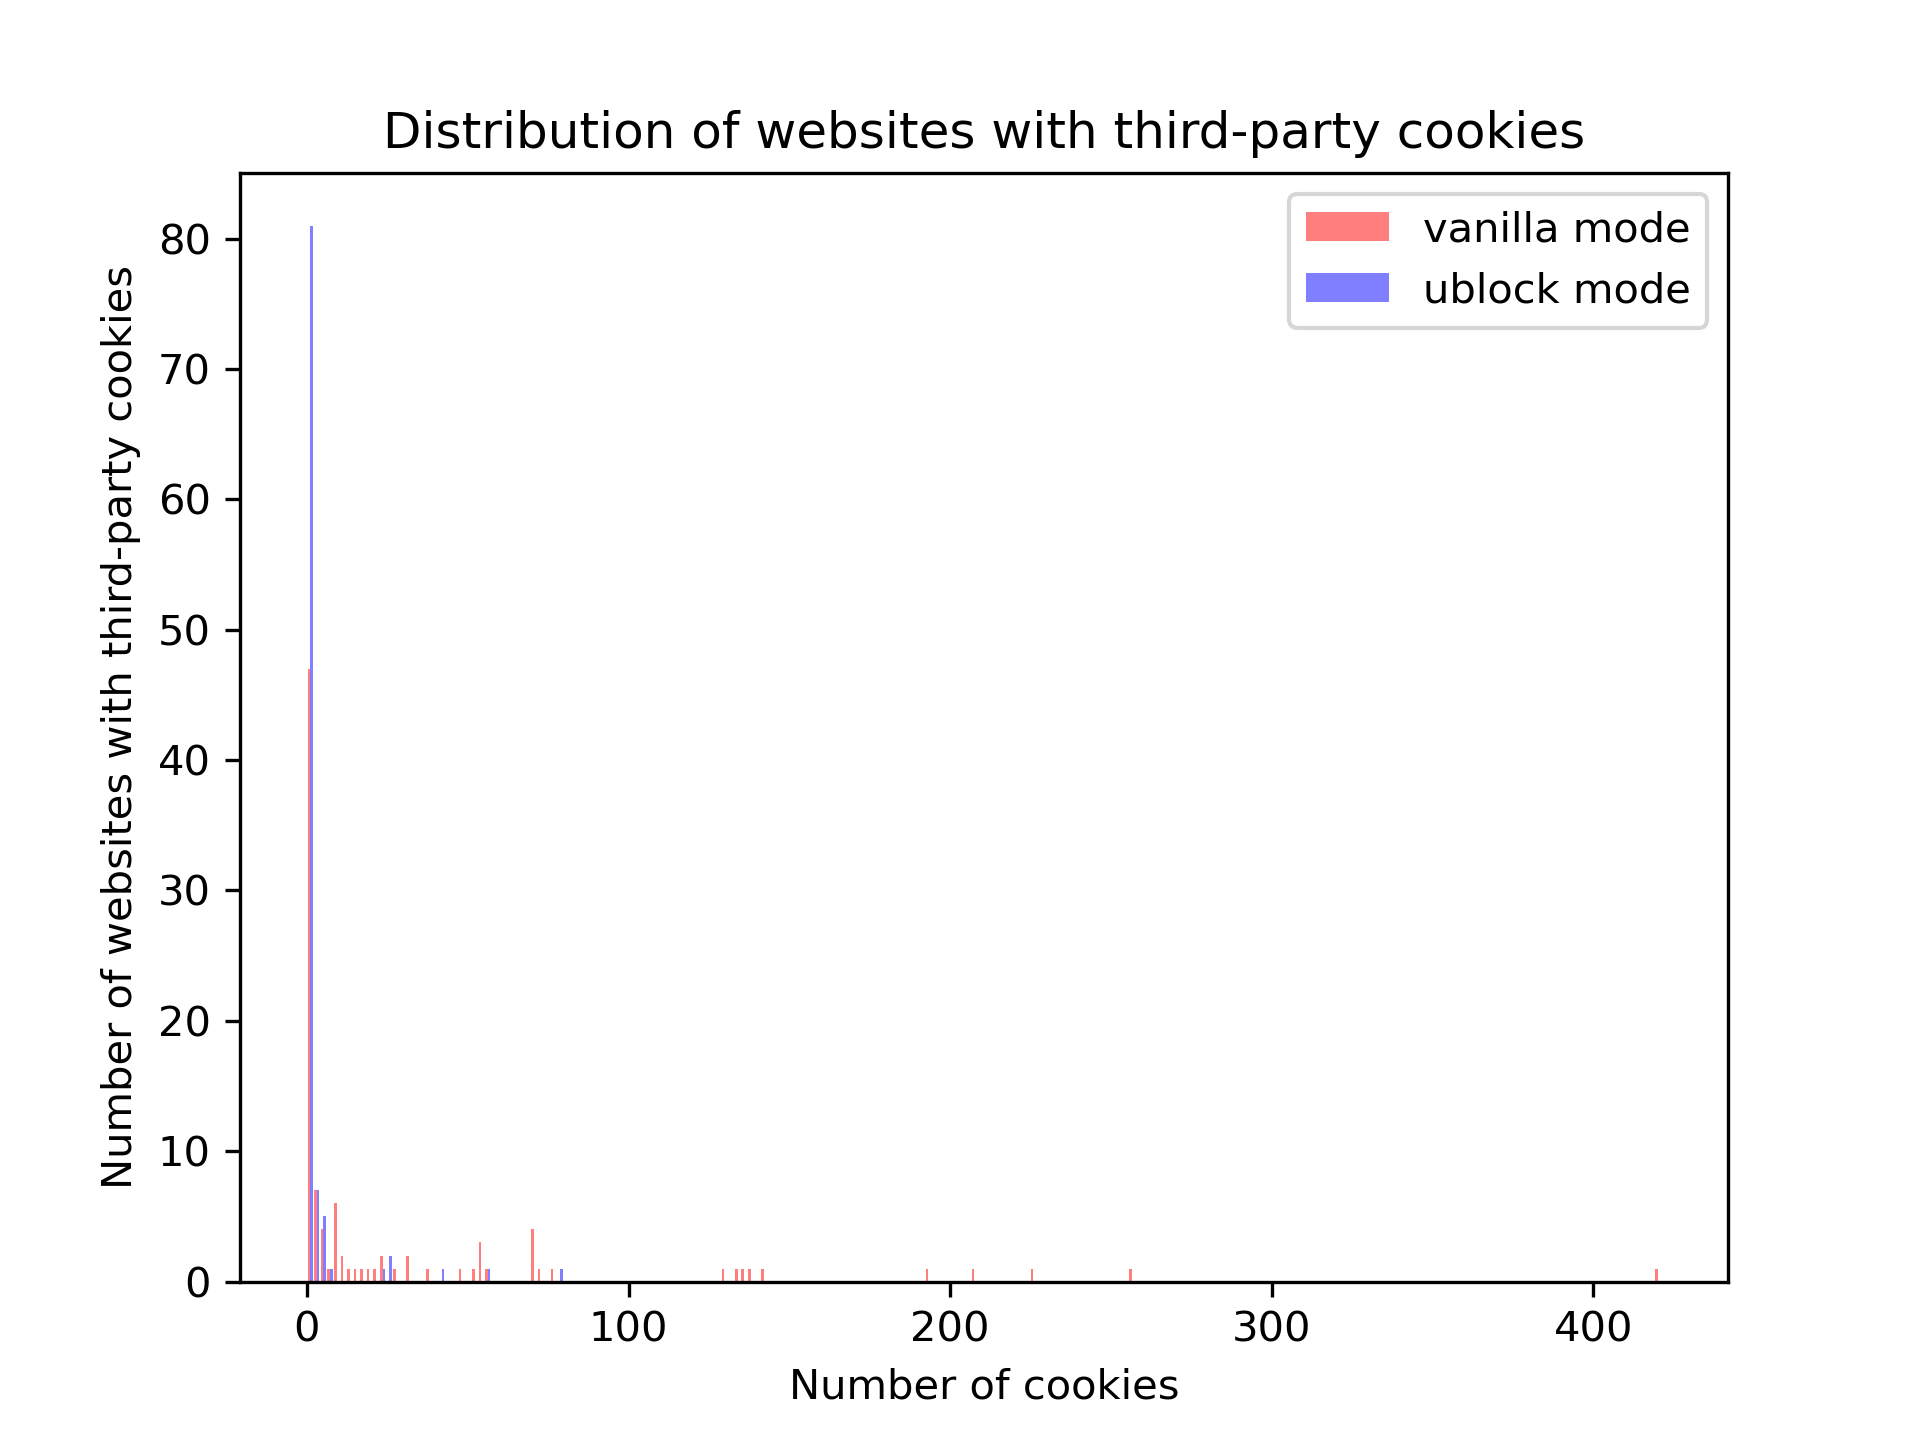
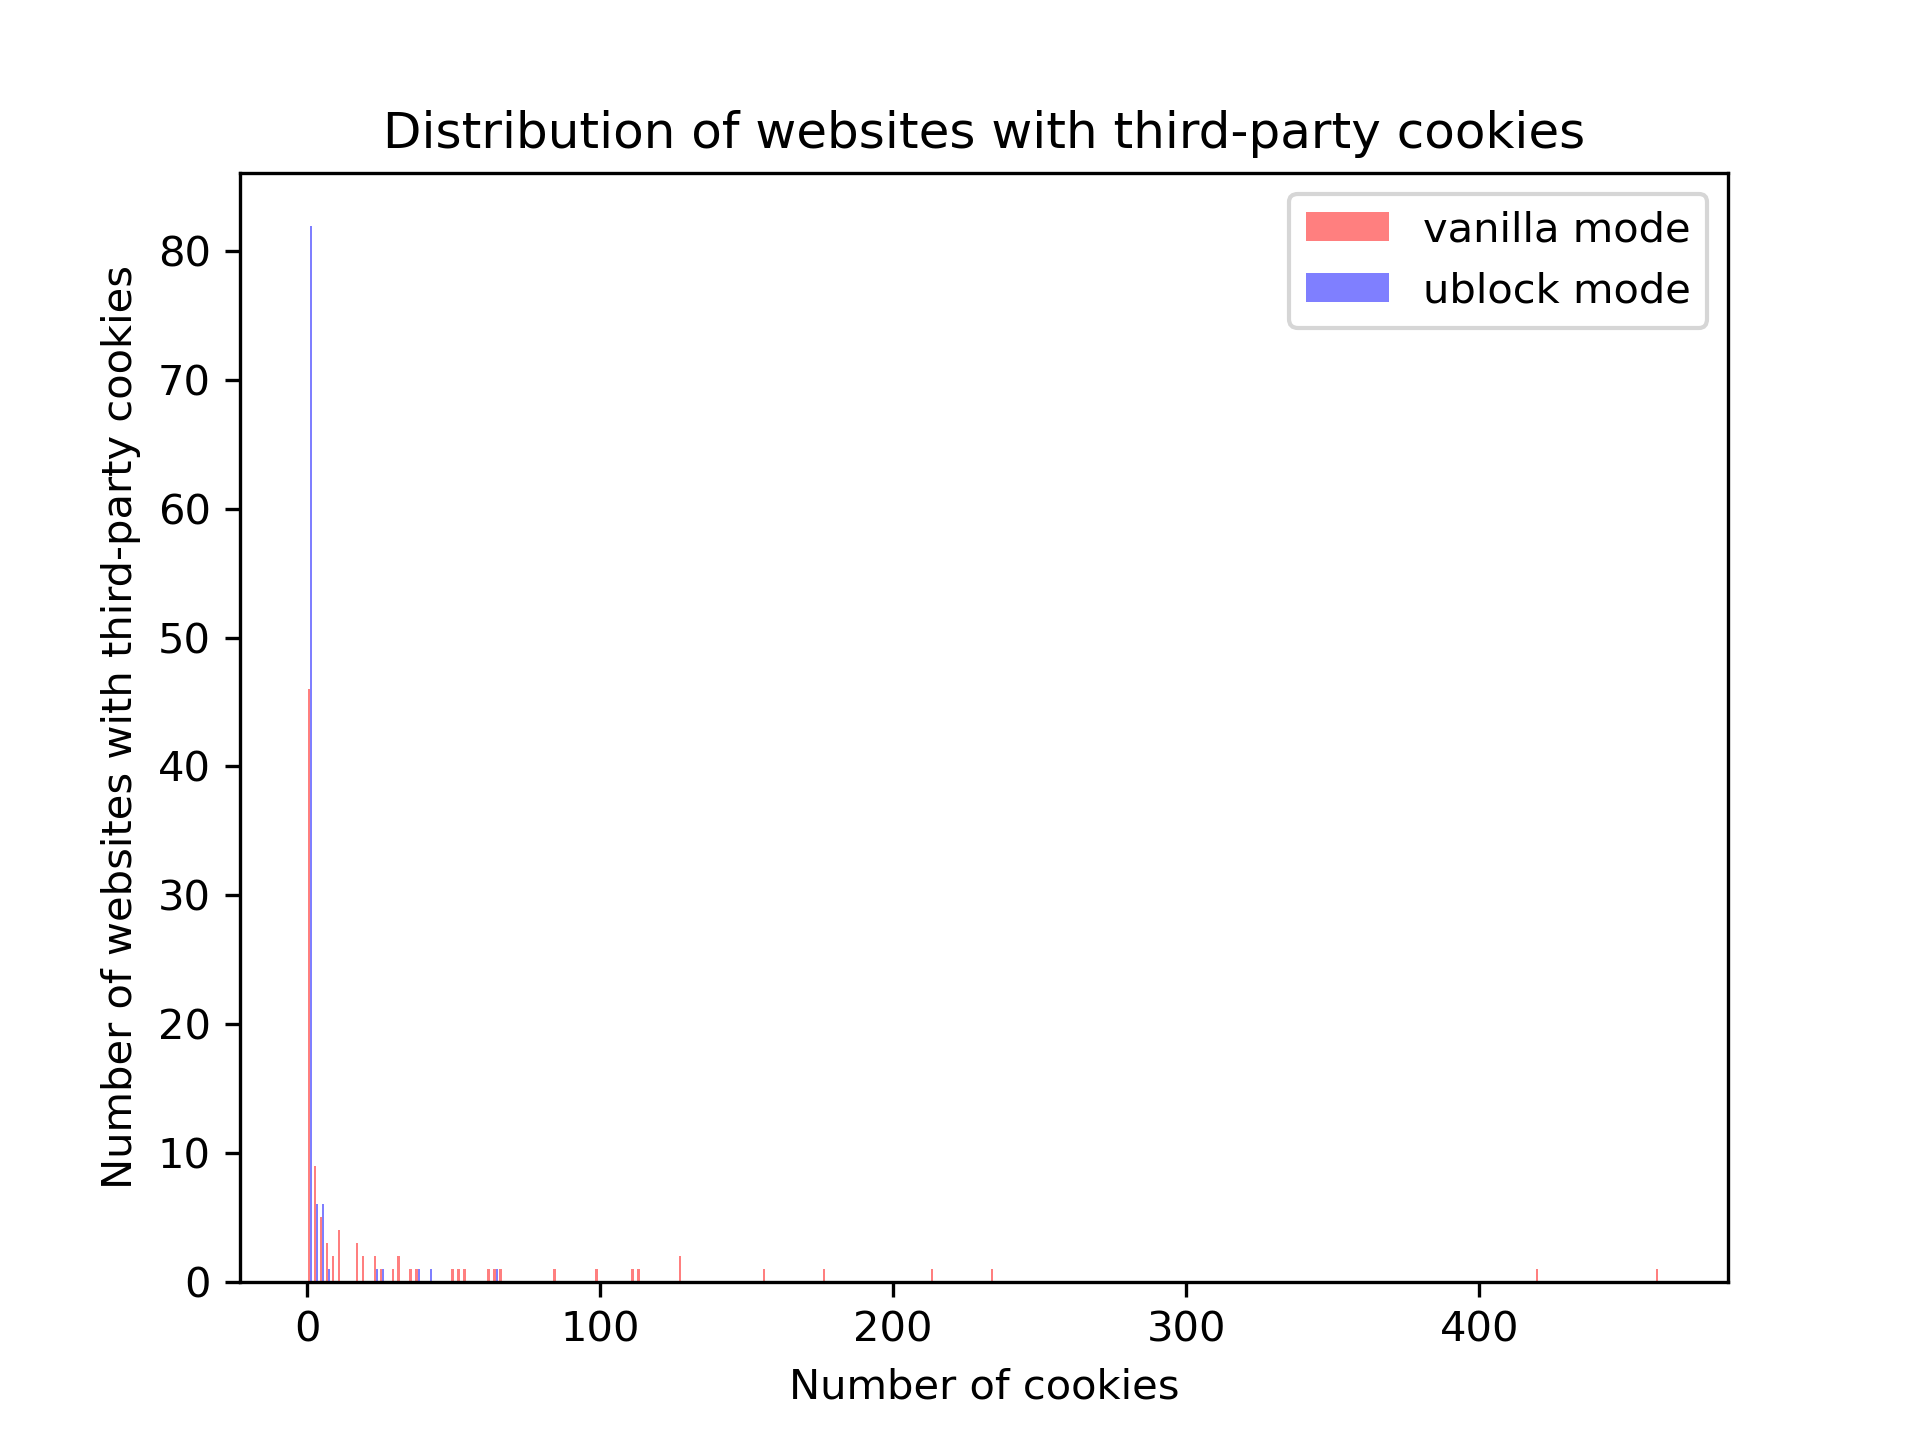
Update report

diff --git a/crawler.py b/crawler.py
@@ -1,3 +1,4 @@
+import sys
 import pandas as pd
 from openwpm.automation import CommandSequence, TaskManager
 
@@ -7,8 +8,9 @@ PATH_CSV = './top-1m.csv'
 NUM_BROWSERS = 1
 
 # The list of sites that we wish to crawl
+num_sites = sys.argv[1]
 data = pd.read_csv(PATH_CSV)
-sites = data.iloc[0:100, 1].values
+sites = data.iloc[:num_sites, 1].values
 
 # Loads the default manager params
 # and NUM_BROWSERS copies of the default browser params
@@ -22,14 +24,14 @@ for i in range(NUM_BROWSERS):
     browser_params[i]['cookie_instrument'] = True
     # Record JS Web API calls
     browser_params[i]['js_instrument'] = True
-    # Turn on uBlock Origin
-    browser_params[i]['ublock-origin'] = True
     # Launch browsers headless
     browser_params[i]['display_mode'] = 'headless'
 
 # Update TaskManager configuration (use this for crawl-wide settings)
-manager_params['data_directory'] = DB_UBLOCK
-manager_params['log_directory'] = DB_UBLOCK
+mode = sys.argv[2]
+db_path = DB_VANILLA if mode == "vanilla" else DB_UBLOCK
+manager_params['data_directory'] = db_path
+manager_params['log_directory'] = db_path
 
 # Instantiates the measurement platform
 # Commands time out by default after 60 seconds

diff --git a/README.md b/README.md
@@ -15,8 +15,10 @@ conda activate openwpm
 ## Run the crawler
 
 ```python3
-python3 crawler.py
+python3 crawler.py <n> <m>
 ```
+
+where `<n>` is the number of sites to record and `<m>` is the mode to launch the browser in (set to `vanilla` or `ublock` to run the browser in "vanilla mode" or "ad blocking mode" respectively).
 
 ## Run the analysis
 
@@ -24,7 +26,7 @@ python3 crawler.py
 python3 analysis.py <m>
 ```
 
-where `<m>` is the measurement to record (set to `"requests"`, `"cookies"`, or `"javascript"` to measure the number of HTTP(S) requests, cookies, and JavaScript API calls respectively).
+where `<m>` is the measurement to record (set to `requests`, `cookies`, or `javascript` to measure the number of HTTP(S) requests, cookies, and JavaScript API calls respectively).
 
 ## Analysis
 
@@ -40,18 +42,18 @@ More than half of the top 100 websites make from 10 to 120 third-party HTTP(S) r
 
 |     | Domain (vanilla)      | Quantity (vanilla) |     | Domain (ublock)       | Quantity (ublock) |
 | --: | :-------------------- | -----------------: | --- | :-------------------- | ----------------: |
-|   1 | ssl-images-amazon.com |                499 |     | ssl-images-amazon.com |               520 |
-|   2 | doubleclick.net       |                328 |     | msocdn.com            |               249 |
-|   3 | alicdn.com            |                274 |     | pstatic.net           |               226 |
-|   4 | msocdn.com            |                249 |     | alicdn.com            |               200 |
-|   5 | google.com            |                241 |     | cloudfront.net        |               198 |
-|   6 | pstatic.net           |                239 |     | pinimg.com            |               191 |
-|   7 | googlesyndication.com |                228 |     | sinaimg.cn            |               159 |
-|   8 | cloudfront.net        |                203 |     | qhimg.com             |               150 |
-|   9 | pinimg.com            |                200 |     | awsstatic.com         |               149 |
-|  10 | akamaized.net         |                182 |     | twimg.com             |               118 |
+|   1 | ssl-images-amazon.com |                471 |     | ssl-images-amazon.com |               537 |
+|   2 | doubleclick.net       |                322 |     | msocdn.com            |               249 |
+|   3 | alicdn.com            |                252 |     | cloudfront.net        |               208 |
+|   4 | msocdn.com            |                249 |     | pstatic.net           |               207 |
+|   5 | google.com            |                245 |     | alicdn.com            |               201 |
+|   6 | googlesyndication.com |                235 |     | pinimg.com            |               195 |
+|   7 | pstatic.net           |                229 |     | qhimg.com             |               150 |
+|   8 | cloudfront.net        |                203 |     | awsstatic.com         |               149 |
+|   9 | pinimg.com            |                200 |     | csdnimg.cn            |               138 |
+|  10 | awsstatic.com         |                164 |     | twimg.com             |               118 |
 
-Many of these domains seem to be CDN distributors (msocdn.com - for Microsoft Office, cloudfront.net, or akamaized.net). ssl-images-amazon.com, which is apparently a server that stores images for Amazon web pages, makes the most requests in both modes. Similarly, pinimg.com is Pinterest's server for images but it ranks lower in the list. Noticably, doubleclick.net by Google (placed second on the list in vanilla mode) is an advertising service which is agressively blocked in ublock mode.
+Many of these domains seem to be CDN distributors (msocdn.com - for Microsoft Office, cloudfront.net, or alicdn.com). ssl-images-amazon.com, which is apparently a server that stores images for Amazon web pages, makes the most requests in both modes. Similarly, pinimg.com is Pinterest's server for images but it ranks lower in the list. Noticably, doubleclick.net by Google (placed second on the list in vanilla mode) is an advertising service which is agressively blocked in ublock mode.
 
 ### Third-party cookies
 
@@ -65,18 +67,18 @@ The majority of the top 100 websites contains about 0-25 third-party cookies (85
 
 |     | Domain (vanilla)   | Quantity (vanilla) |     | Domain (ublock) | Quantity (ublock) |
 | --: | :----------------- | -----------------: | --- | :-------------- | ----------------: |
-|   1 | yahoo.com          |                259 |     | amazon.com      |                79 |
-|   2 | demdex.net         |                224 |     | microsoft.com   |                24 |
-|   3 | casalemedia.com    |                179 |     | bbc.com         |                23 |
-|   4 | doubleclick.net    |                165 |     | aliexpress.ru   |                20 |
-|   5 | pubmatic.com       |                115 |     | tmall.ru        |                19 |
-|   6 | amazon.com         |                115 |     | google.com      |                17 |
-|   7 | rubiconproject.com |                108 |     | youtube.com     |                16 |
-|   8 | adsrvr.org         |                100 |     | sina.cn         |                15 |
-|   9 | linkedin.com       |                 94 |     | live.com        |                14 |
-|  10 | adnxs.com          |                 68 |     | taboola.com     |                13 |
+|   1 | yahoo.com          |                301 |     | amazon.com      |                64 |
+|   2 | demdex.net         |                253 |     | bbc.com         |                25 |
+|   3 | pubmatic.com       |                195 |     | microsoft.com   |                22 |
+|   4 | rubiconproject.com |                172 |     | aliexpress.ru   |                20 |
+|   5 | doubleclick.net    |                148 |     | youtube.com     |                19 |
+|   6 | adsrvr.org         |                124 |     | tmall.ru        |                19 |
+|   7 | casalemedia.com    |                102 |     | google.com      |                17 |
+|   8 | adnxs.com          |                 86 |     | live.com        |                16 |
+|   9 | linkedin.com       |                 85 |     | bing.com        |                11 |
+|  10 | rlcdn.com          |                 82 |     | yahoo.com       |                 9 |
 
-Alarmingly, most of the domains in the vanilla list (casalemedia.com, doubleclick.net, pubmatic.com, rubiconproject.com, adsrvr.org, adnxs.com) are digital from ad exchanging/tracking platforms. Also, demdex.net by Adobe Analytics is a capturer of behavioral data that tracks and identifies unique users across websites. With uBlock Origin in action, the number of cookies drastically reduces and those aforementioned domains seem to be blocked completely. In ublock mode, most of the domains are of well-known companies like Amazon, Microsoft, Google, BBC News,...
+Alarmingly, most of the domains in the vanilla list (casalemedia.com, doubleclick.net, pubmatic.com, rubiconproject.com, adsrvr.org, adnxs.com) are digital from ad exchanging/tracking platforms. Also, demdex.net by Adobe Analytics is a capturer of behavioral data that tracks and identifies unique users across websites, which is ranked second in the vanilla list. With uBlock Origin in action, the number of third-party cookies drastically reduces and those aforementioned domains seem to be blocked completely. In ublock mode, most of the domains are of well-known companies like Amazon, Microsoft, Google, Yahoo, BBC News,...
 
 ### Third-party JavaScript API calls
 
@@ -90,15 +92,15 @@ Most of the websites make from 10 to 800 third-party JavaScript API calls in bot
 
 |     | Domain (vanilla)     | Quantity (vanilla) |     | Domain (ublock) | Quantity (ublock) |
 | --: | :------------------- | -----------------: | --- | :-------------- | ----------------: |
-|   1 | forbesimg.com        |               6439 |     | forbesimg.com   |              5025 |
-|   2 | wsimg.com            |               2629 |     | wsimg.com       |              2594 |
-|   3 | 2mdn.net             |               2413 |     | alicdn.com      |              1044 |
-|   4 | media.net            |               2374 |     | itc.cn          |               779 |
-|   5 | google-analytics.com |               1781 |     | youtube.com     |               773 |
-|   6 | alicdn.com           |               1321 |     | awsstatic.com   |               462 |
-|   7 | doubleclick.net      |                976 |     | guim.co.uk      |               388 |
-|   8 | adobedtm.com         |                856 |     | bbci.co.uk      |               380 |
-|   9 | krxd.net             |                851 |     | segment.com     |               309 |
-|  10 | itc.cn               |                847 |     | twitchcdn.net   |               305 |
+|   1 | forbesimg.com        |               4347 |     | wsimg.com       |              2624 |
+|   2 | media.net            |               2292 |     | alicdn.com      |              1067 |
+|   3 | segment.com          |               1665 |     | itc.cn          |               782 |
+|   4 | alicdn.com           |               1255 |     | youtube.com     |               422 |
+|   5 | google-analytics.com |               1229 |     | guim.co.uk      |               411 |
+|   6 | adobedtm.com         |                900 |     | segment.com     |               315 |
+|   7 | doubleclick.net      |                867 |     | bcicdn.com      |               309 |
+|   8 | itc.cn               |                847 |     | twitchcdn.net   |               305 |
+|   9 | krxd.net             |                814 |     | yimg.jp         |               294 |
+|  10 | googletagmanager.com |                767 |     | awsstatic.com   |               272 |
 
-Noticably, at least three of the 10 domains in the vanilla list are from Google (2mdn.net - a server by Double Click, google-analytics.com, and doubleclick.net - now owned by Google), all of which make over 5000 calls and are blocked agressively by uBlock Origin. Placed second in the vanilla list is wsimg.com, which seems to be a media site that is hostile and was blocked by Google Safe Browing. With uBlock Origin on, those mentioned sites are no longer in the list. Also, there is a decrease in the number of calls and the domains seems somewhat more legit in ublock mode, yet the decrease is very small.
+Noticably, at least three of the 10 domains in the vanilla list are from Google (googletagmanager.com, google-analytics.com, and doubleclick.net - now owned by Google), all of which make over 2000 calls and are blocked agressively by uBlock Origin. Furthermore, placed second and third in the vanilla list are media.net and segment.com - respectively an advertising platform and a customer data platform that collects and controls customer data. Also, krxd.net is a data platform that profiles users for advertisements. With uBlock Origin on, those mentioned sites are no longer in the list. Also, there is a decrease in the number of calls and the domains seems somewhat more legit in ublock mode.
